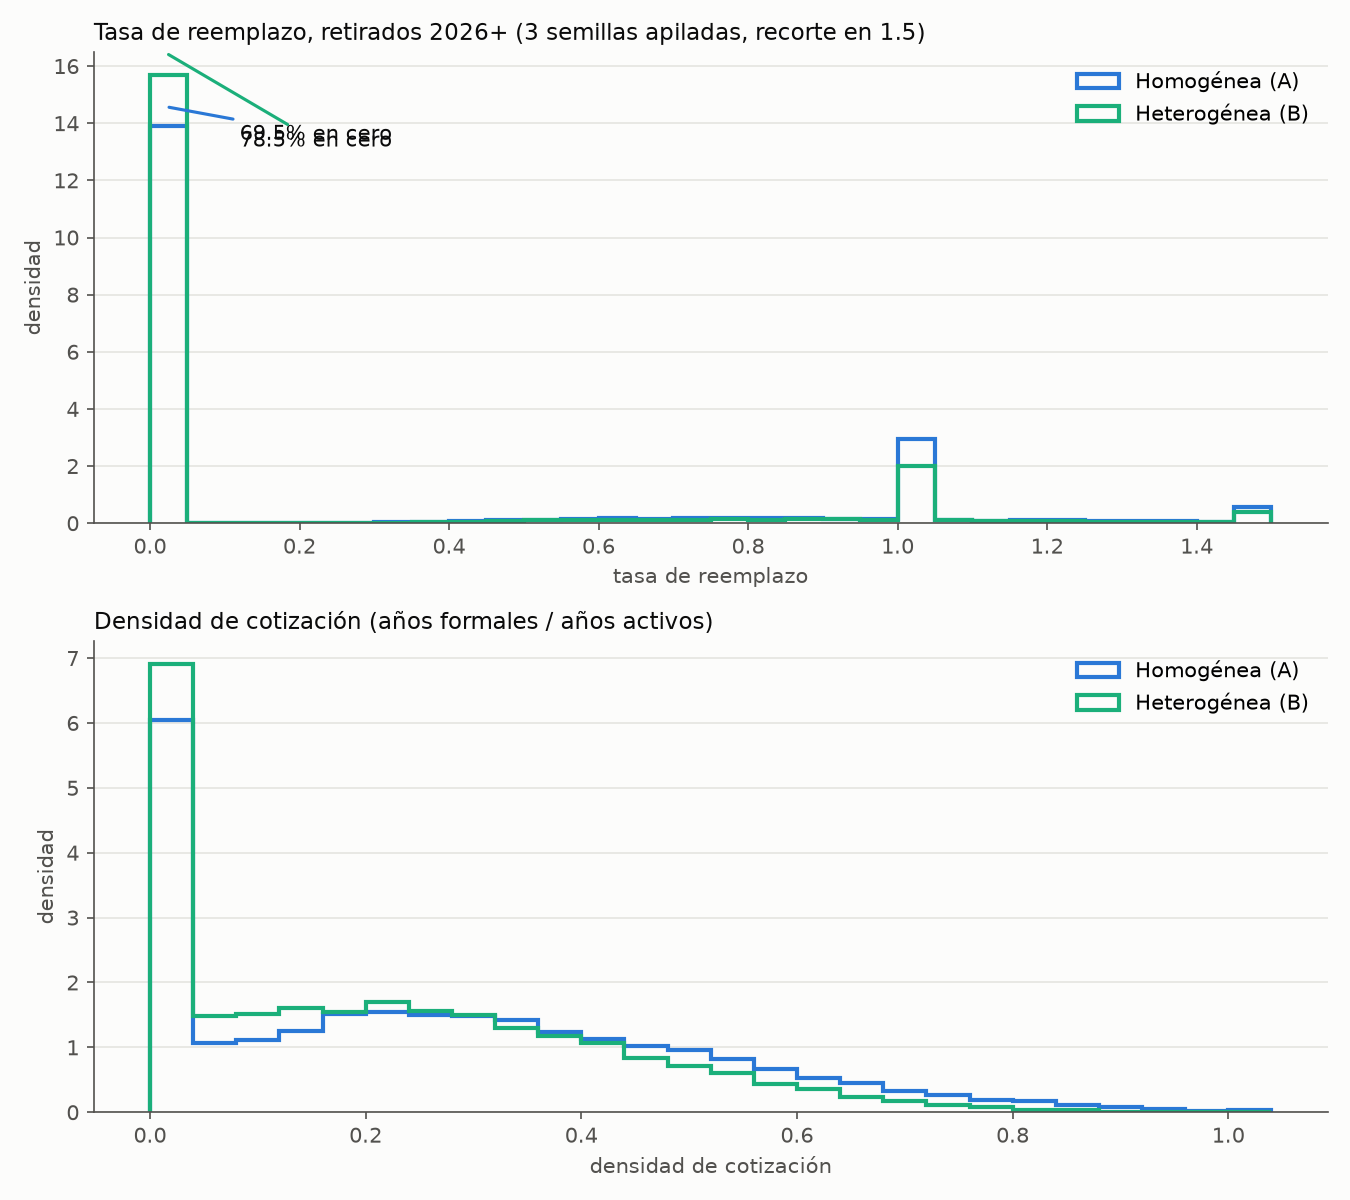
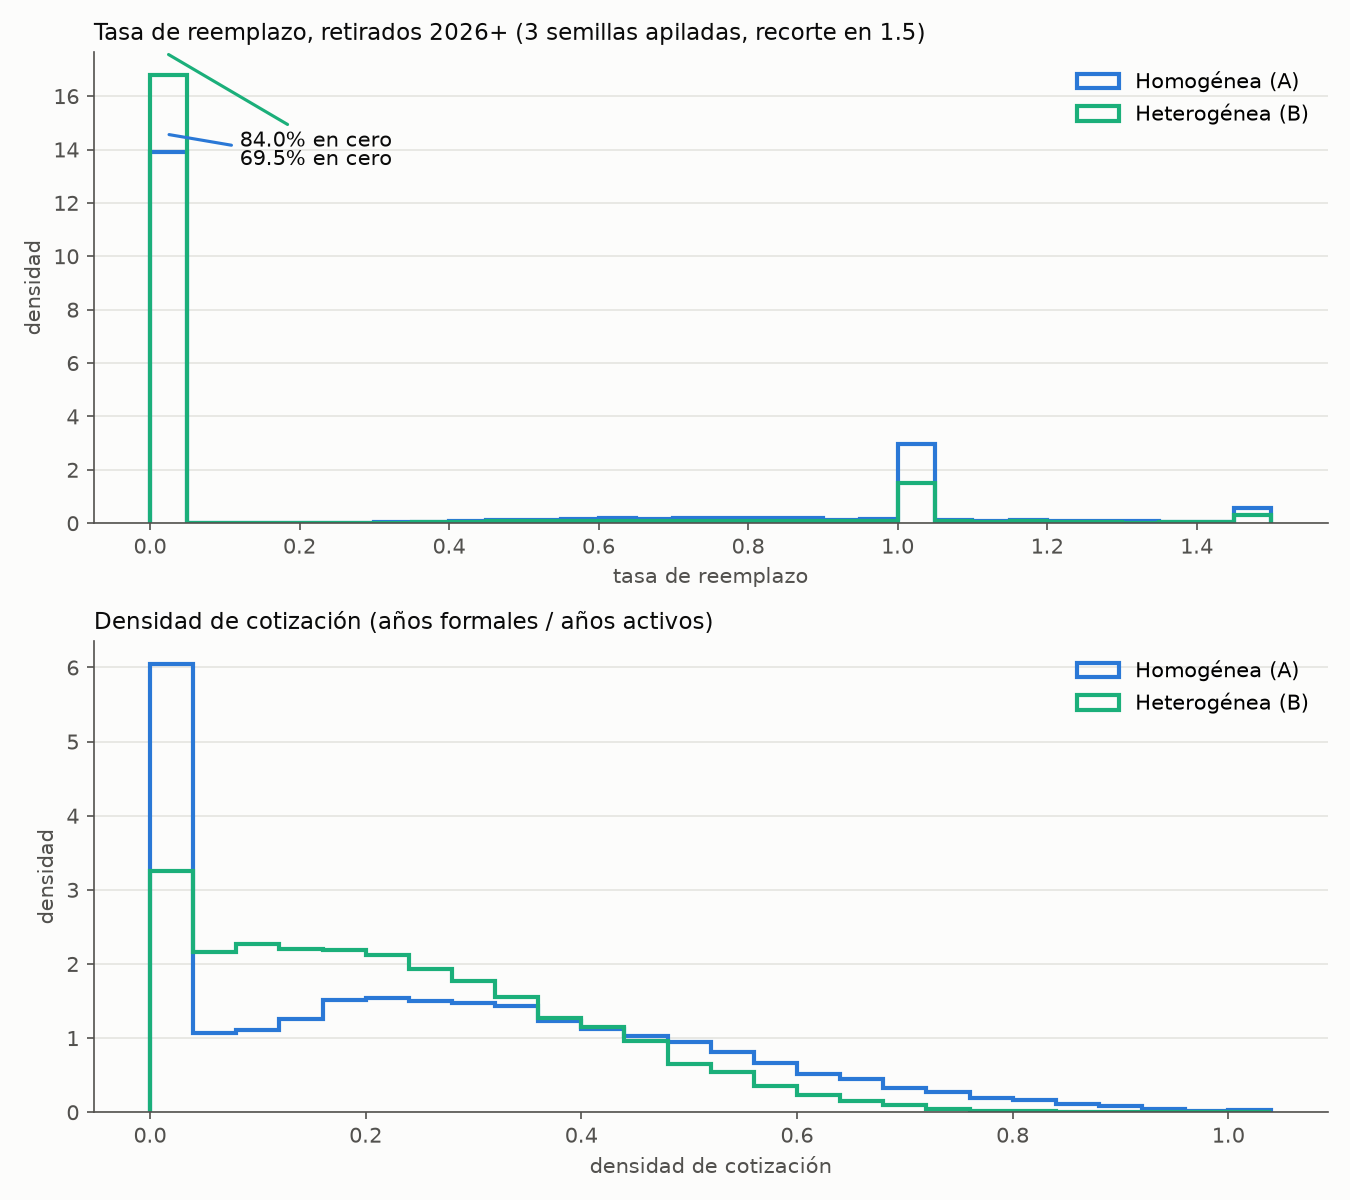
feat(analisis): re-comparación con matrices anuales definitivas — Paso 4
Adapta recalculo_masa_cero.py a la semántica de 5 estados (sector_issste
en B derivado del estado FINAL, proxy documentado en docstring; en A
sigue el flag sorteado) y agrega percentiles de TR sobre cotizantes y
desgloses de la masa en cero por perfil y por década (régimen B).

Resultados (5k agentes, 3 semillas, promedio):

                          A_homog   B_definitiva  [B-v1-trim: 78.5 / B-P4: 89.5]
masa_en_cero_IMSS            69.5%      84.0%
cobertura (anios_formal>0)   78.0%      91.1%
no-cob nunca-formal           5.2%       8.8%
no-cob ISSSTE (final)        16.8%       0.1%
densidad media cotizantes    0.33        0.24
densidad media retirados     0.26        0.22
TR p75 cotizantes            0.76        0.00

Desgloses B: masa en cero de 59.6% (H superior) a 98.2% (M basica-);
por década cae de 95.3% (2020s) a 77.6% (2060s). Figura regenerada con
las matrices definitivas (comparacion_paso4.py).

Números sin interpretar; lectura conjunta pendiente (referencia externa:
densidad observada México ~40-50%).

diff --git a/analisis/matrices/recalculo_masa_cero.py b/analisis/matrices/recalculo_masa_cero.py
@@ -3,6 +3,15 @@
 Mismo protocolo que comparacion_paso4.py (5k agentes, escenario base,
 3 semillas por régimen), pero las métricas excluyen del denominador a
 ISSSTE y nunca-formales. Solo post-procesamiento; cero cambios al motor.
+
+CAMBIO DE SEMÁNTICA (motor a 5 estados, Fase 2.5/Paso 3): en el régimen
+heterogéneo la columna sector_issste ya NO es un flag sorteado al nacer —
+el motor la DERIVA del estado final (True == terminó en formal_ISSSTE,
+con transiciones IMSS↔ISSSTE endógenas). El desglose de no-cobertura
+"ISSSTE vs nunca-formal" usa esa columna: en B es un proxy por estado
+FINAL (un no-cubierto que pasó por ISSSTE y terminó en otro estado cuenta
+como nunca-formal; el motor no exporta trayectorias). En el régimen A
+(homogéneo, 4 estados) la semántica vieja del flag sorteado sigue vigente.
 """
 
 import logging
@@ -36,6 +45,7 @@ ind_sal = cargar_indice_salarial_real()
 
 SEMILLAS = [cfg["semilla"] + k for k in range(3)]
 filas = []
+dfs_b = []  # retirados del régimen B (3 semillas) para los desgloses
 
 for regimen, flag in [("A_homogenea", False), ("B_heterogenea", True)]:
     for s in SEMILLAS:
@@ -46,6 +56,8 @@ for regimen, flag in [("A_homogenea", False), ("B_heterogenea", True)]:
             matriz_heterogenea=flag,
         )
         ret = res.agentes[res.agentes["cohorte_retiro"] >= 2026]
+        if flag:
+            dfs_b.append(ret.copy())
         cot = ret[ret["anios_formal"] > 0]          # cotizantes IMSS
         nocov = ret[ret["anios_formal"] == 0]       # sin cobertura
         tr = cot["tasa_reemplazo"]
@@ -66,6 +78,8 @@ for regimen, flag in [("A_homogenea", False), ("B_heterogenea", True)]:
             # densidad de cotización (años formales IMSS / años activos)
             "dens_media_retirados": ret["densidad_cotizacion"].mean(),
             "dens_media_cotizantes": cot["densidad_cotizacion"].mean(),
+            # percentiles de TR sobre cotizantes IMSS
+            **{f"tr_p{q}": tr.quantile(q / 100) for q in (10, 25, 50, 75, 90)},
             # métricas viejas para referencia
             "vieja_pension_cero_pct": 100 * (ret["pension_mensual"] == 0).mean(),
             "vieja_tasa_cero_dropna_pct": 100
@@ -84,4 +98,24 @@ print("\n===== PROMEDIO ± STD ENTRE SEMILLAS =====")
 prom = tabla.drop(columns=["semilla", "segundos"]).groupby("regimen").agg(
     ["mean", "std"]
 )
-print(prom.round(2).T.to_string())
+print(prom.round(3).T.to_string())
+
+# ===== desgloses régimen B (3 semillas apiladas), masa en cero corregida =====
+b = pd.concat(dfs_b, ignore_index=True)
+bcot = b[b["anios_formal"] > 0].copy()
+bcot["cero"] = bcot["tasa_reemplazo"] == 0
+
+print("\n===== B: masa en cero (TR=0 sobre cotizantes IMSS) por perfil =====")
+g = bcot.groupby(["genero", "escolaridad"], observed=True)["cero"].agg(
+    n_cotizantes="size", pct_cero=lambda x: 100 * x.mean()
+)
+g["share_de_los_ceros"] = (
+    100 * bcot.groupby(["genero", "escolaridad"], observed=True)["cero"].sum()
+    / bcot["cero"].sum()
+)
+print(g.round(1).to_string())
+
+print("\n===== B: masa en cero por década de retiro =====")
+bcot["decada"] = (bcot["cohorte_retiro"] // 10) * 10
+print(bcot.groupby("decada")["cero"].agg(
+    n_cotizantes="size", pct_cero=lambda x: 100 * x.mean()).round(1).to_string())